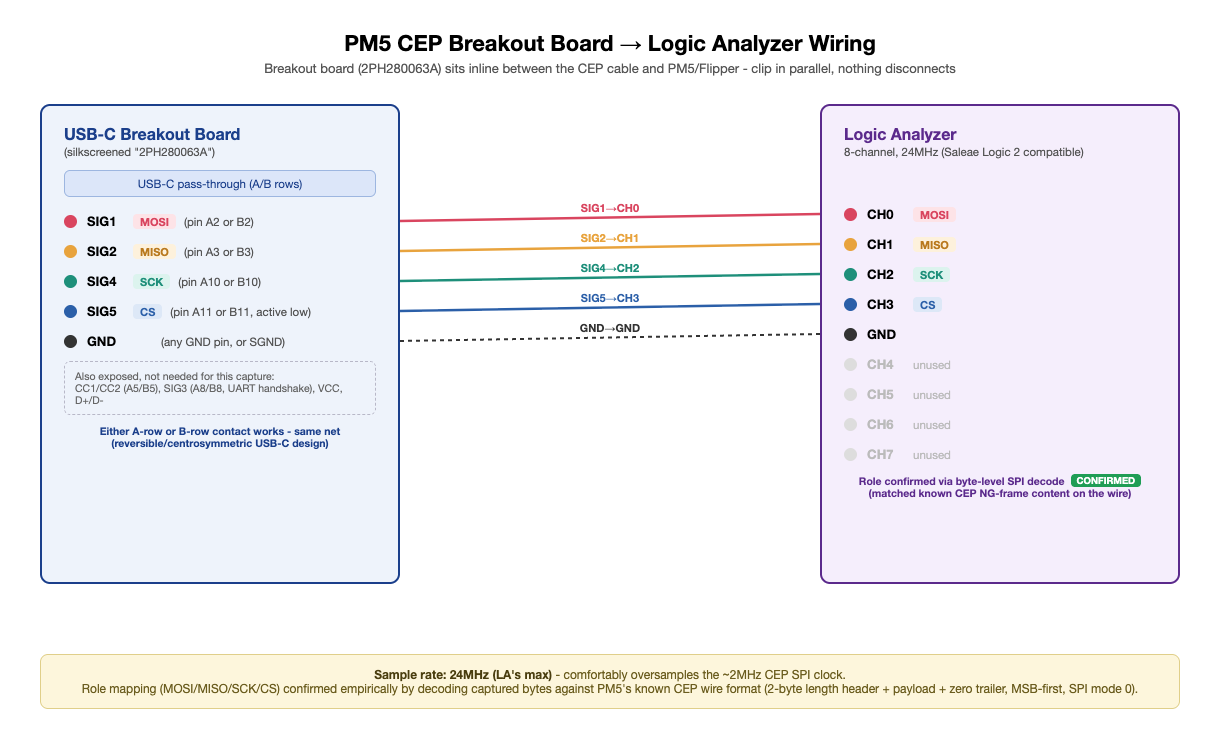
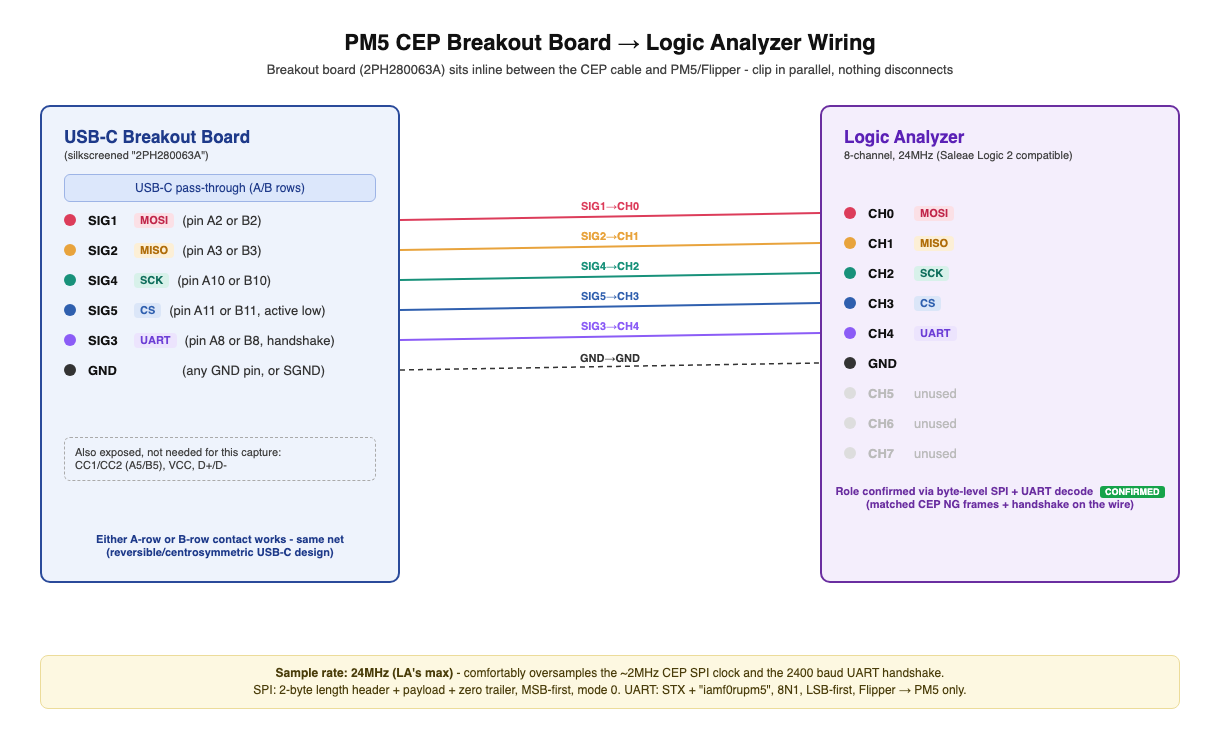
Add UART handshake decoder on CH4
Decode the Flipper's 2400 baud STX + iamf0rupm5 handshake on SIG3 (A8/B8)
with a second HLA on top of Async Serial. capture.py attaches both, the
preset names CH4, and the README and wiring diagram cover the extra probe.

diff --git a/pm3_handshake_hla.py b/pm3_handshake_hla.py
@@ -1,0 +1,60 @@
+"""Saleae High-Level Analyzer: the PM5 CEP UART handshake (Flipper -> PM5).
+
+Attach to an Async Serial analyzer on SIG3 (A8/B8), 2400 baud 8N1, LSB
+first. Before switching to SPI, the Flipper sends STX (0x02) followed by
+"iamf0rupm5"; the PM5 only listens on this line.
+"""
+from saleae.analyzers import HighLevelAnalyzer, AnalyzerFrame
+
+STX = 0x02
+MAGIC = b"iamf0rupm5"
+
+
+class HandshakeHla(HighLevelAnalyzer):
+    result_types = {
+        "handshake": {"format": "HANDSHAKE {{data.text}}"},
+        "bad": {"format": "BAD HANDSHAKE {{data.text}} ({{data.reason}})"},
+        "byte": {"format": "{{data.text}}"},
+    }
+
+    def __init__(self):
+        self._buf = None   # bytes after STX, None when not in a handshake
+        self._start = None
+        self._end = None
+
+    def decode(self, frame):
+        if frame.type != "data":
+            return None
+        byte = frame.data["data"][0]
+        error = frame.data.get("error")
+        out = []
+
+        if byte == STX and not error:
+            # A new STX mid-handshake means the previous attempt was cut short.
+            if self._buf is not None:
+                out.append(self._bad("restarted"))
+            self._buf = bytearray()
+            self._start = frame.start_time
+            self._end = frame.end_time
+            return out or None
+
+        if self._buf is None:
+            text = "0x%02X" % byte + (" " + error if error else "")
+            return AnalyzerFrame("byte", frame.start_time, frame.end_time, {"text": text})
+
+        self._buf.append(byte)
+        self._end = frame.end_time
+        if error:
+            out.append(self._bad(error.lower() + " error"))
+        elif self._buf != MAGIC[:len(self._buf)]:
+            out.append(self._bad("mismatch"))
+        elif len(self._buf) == len(MAGIC):
+            out.append(AnalyzerFrame("handshake", self._start, self._end, {"text": MAGIC.decode()}))
+            self._buf = None
+        return out or None
+
+    def _bad(self, reason):
+        text = self._buf.decode("ascii", "replace")
+        frame = AnalyzerFrame("bad", self._start, self._end, {"text": repr(text), "reason": reason})
+        self._buf = None
+        return frame

diff --git a/capture-tools/capture.py b/capture-tools/capture.py
@@ -1,7 +1,7 @@
 #!/usr/bin/env python3
 """
-Timed 8-channel/24MHz Logic 2 capture of the CEP SPI bus, with the SPI
-analyzer and the PM3 CEP Frames HLA attached, exported as digital.csv into
+Timed 8-channel/24MHz Logic 2 capture of the CEP link, with the SPI and
+Async Serial analyzers and both HLAs attached, exported as digital.csv into
 ./la_captures/<timestamp>_<label>/ (override with LA_CAPTURE_DIR).
 
 Usage:
@@ -73,6 +73,19 @@ def main():
         "PM3 CEP Frames",
         input_analyzer=spi,
         label="PM3 CEP Frames",
+    )
+    # Other settings default to 8N1, LSB first, non-inverted.
+    uart = capture.add_analyzer(
+        "Async Serial",
+        label="UART",
+        settings={"Input Channel": 4, "Bit Rate (Bits/s)": 2400},
+    )
+    time.sleep(1.0)
+    capture.add_high_level_analyzer(
+        os.path.abspath(HLA_DIR),
+        "PM5 CEP Handshake",
+        input_analyzer=uart,
+        label="PM5 CEP Handshake",
     )
     capture.export_raw_data_csv(outdir, digital_channels=[0, 1, 2, 3, 4, 5, 6, 7])
     print(f"EXPORTED TO {outdir}")

diff --git a/README.md b/README.md
@@ -6,8 +6,10 @@ Zero over CEP (the PM5's extended USB-C port).
 
 - **PM3 CEP Frames**: a Logic 2 High Level Analyzer that labels each SPI
   burst with the Proxmark3 command/response name, status, and length.
+- **PM5 CEP Handshake**: a second High Level Analyzer that labels the
+  Flipper's UART handshake (`STX` + `iamf0rupm5`) and flags bad attempts.
 - **PM5 - CEP - SPI**: a Logic 2 preset with the channels named, the SPI
-  analyzer configured, and the data table laid out for the decoder.
+  analyzer configured, and the data table laid out for the decoders.
 - **Capture scripts**: scripted captures, offline decoding, and bus timing.
 - **Flipper helpers**: one-shot CLI commands and `expect` scripts for
   driving the Flipper side during a capture.
@@ -20,8 +22,9 @@ CEP.
 | Path | What it is |
 | --- | --- |
 | `extension.json`, `pm3_hla.py`, `pm3_frames.py` | The PM3 CEP Frames Logic 2 extension |
+| `pm3_handshake_hla.py` | The PM5 CEP Handshake decoder (same extension) |
 | `logic2-preset/` | The PM5 - CEP - SPI preset |
-| `capture-tools/capture.py` | Timed 8-channel/24 MHz capture via the Logic 2 automation API, with SPI and HLA attached, exported to CSV |
+| `capture-tools/capture.py` | Timed 8-channel/24 MHz capture via the Logic 2 automation API, with SPI, Async Serial and both decoders attached, exported to CSV |
 | `capture-tools/spi_decode.py` | Offline decode of an exported `digital.csv`; flags malformed CEP frames (sync, length prefix, `PM3a` magic) |
 | `capture-tools/find_burst.py` | Groups transitions into SPI transactions and reports the idle gap between them (e.g. the Flipper's poll interval) |
 | `flipper-cli/flipper_cli.py` | Sends a single Flipper CLI command over serial, no interactive session needed |
@@ -41,9 +44,11 @@ analyzer on in parallel. Nothing needs disconnecting.
 | CH1 | MISO (PM5 -> Flipper) | A3 / B3 |
 | CH2 | SCK | A10 / B10 |
 | CH3 | CS, active low | A11 / B11 |
+| CH4 | UART handshake (Flipper -> PM5) | A8 / B8 (SBU1) |
 | GND | GND | any GND |
 
-Sample at 24 MHz; the CEP clock is about 2 MHz.
+Sample at 24 MHz; the CEP clock is about 2 MHz. CH4 is only needed to
+see the handshake, which happens once each time the Flipper app starts.
 
 Don't use an inline USB-C power meter (e.g. FNIRSI FNB48) in place of
 the breakout. Meters have an active PD chip on CC and don't route SBU, so
@@ -56,9 +61,11 @@ the CEP link won't come up through them.
 2. **Import the preset.** Device settings -> **Presets** -> **Import** ->
    `logic2-preset/PM5 - CEP - SPI.logic2Preset`.
 3. **Add the decoder.** Add the **PM3 CEP Frames** analyzer with **SPI**
-   as its input, then save the preset again so it loads every time. The
-   preset can't include the decoder itself, because Logic 2 stores
-   extensions by local file path.
+   as its input. For the handshake, add an **Async Serial** analyzer on
+   CH4 (2400 bit/s, other settings at their defaults: 8N1, LSB first, non
+   inverted) and a **PM5 CEP Handshake** analyzer with it as input. Save
+   the preset again so it loads every time. The preset can't include the
+   decoders itself, because Logic 2 stores extensions by local file path.
 4. **Optional.** Right-click the SPI analyzer and untick "Show in data
    table", so the table lists only decoded frames.
 
@@ -70,6 +77,10 @@ transfer, CPOL 0, CPHA 0 (mode 0), Enable active low.
 - `CMD <name> len=<n>`: command on MOSI (`PM3a` preamble).
 - `RESP <name> st=<status> len=<n>`: response on MISO (`PM3b` preamble).
   `st` is the PM3 return code; 0 is `PM3_SUCCESS`.
+- `HANDSHAKE iamf0rupm5`: a complete UART handshake on CH4.
+- `BAD HANDSHAKE '<bytes>' (<reason>)`: an attempt that went wrong after
+  `STX`: `mismatch`, `framing error`, or `restarted` (a new `STX` arrived
+  first). Bytes outside a handshake show as hex.
 
 Frames are found by searching for the preamble, so the CEP sync bytes
 and length prefix in front of a frame are skipped. Unknown command IDs
